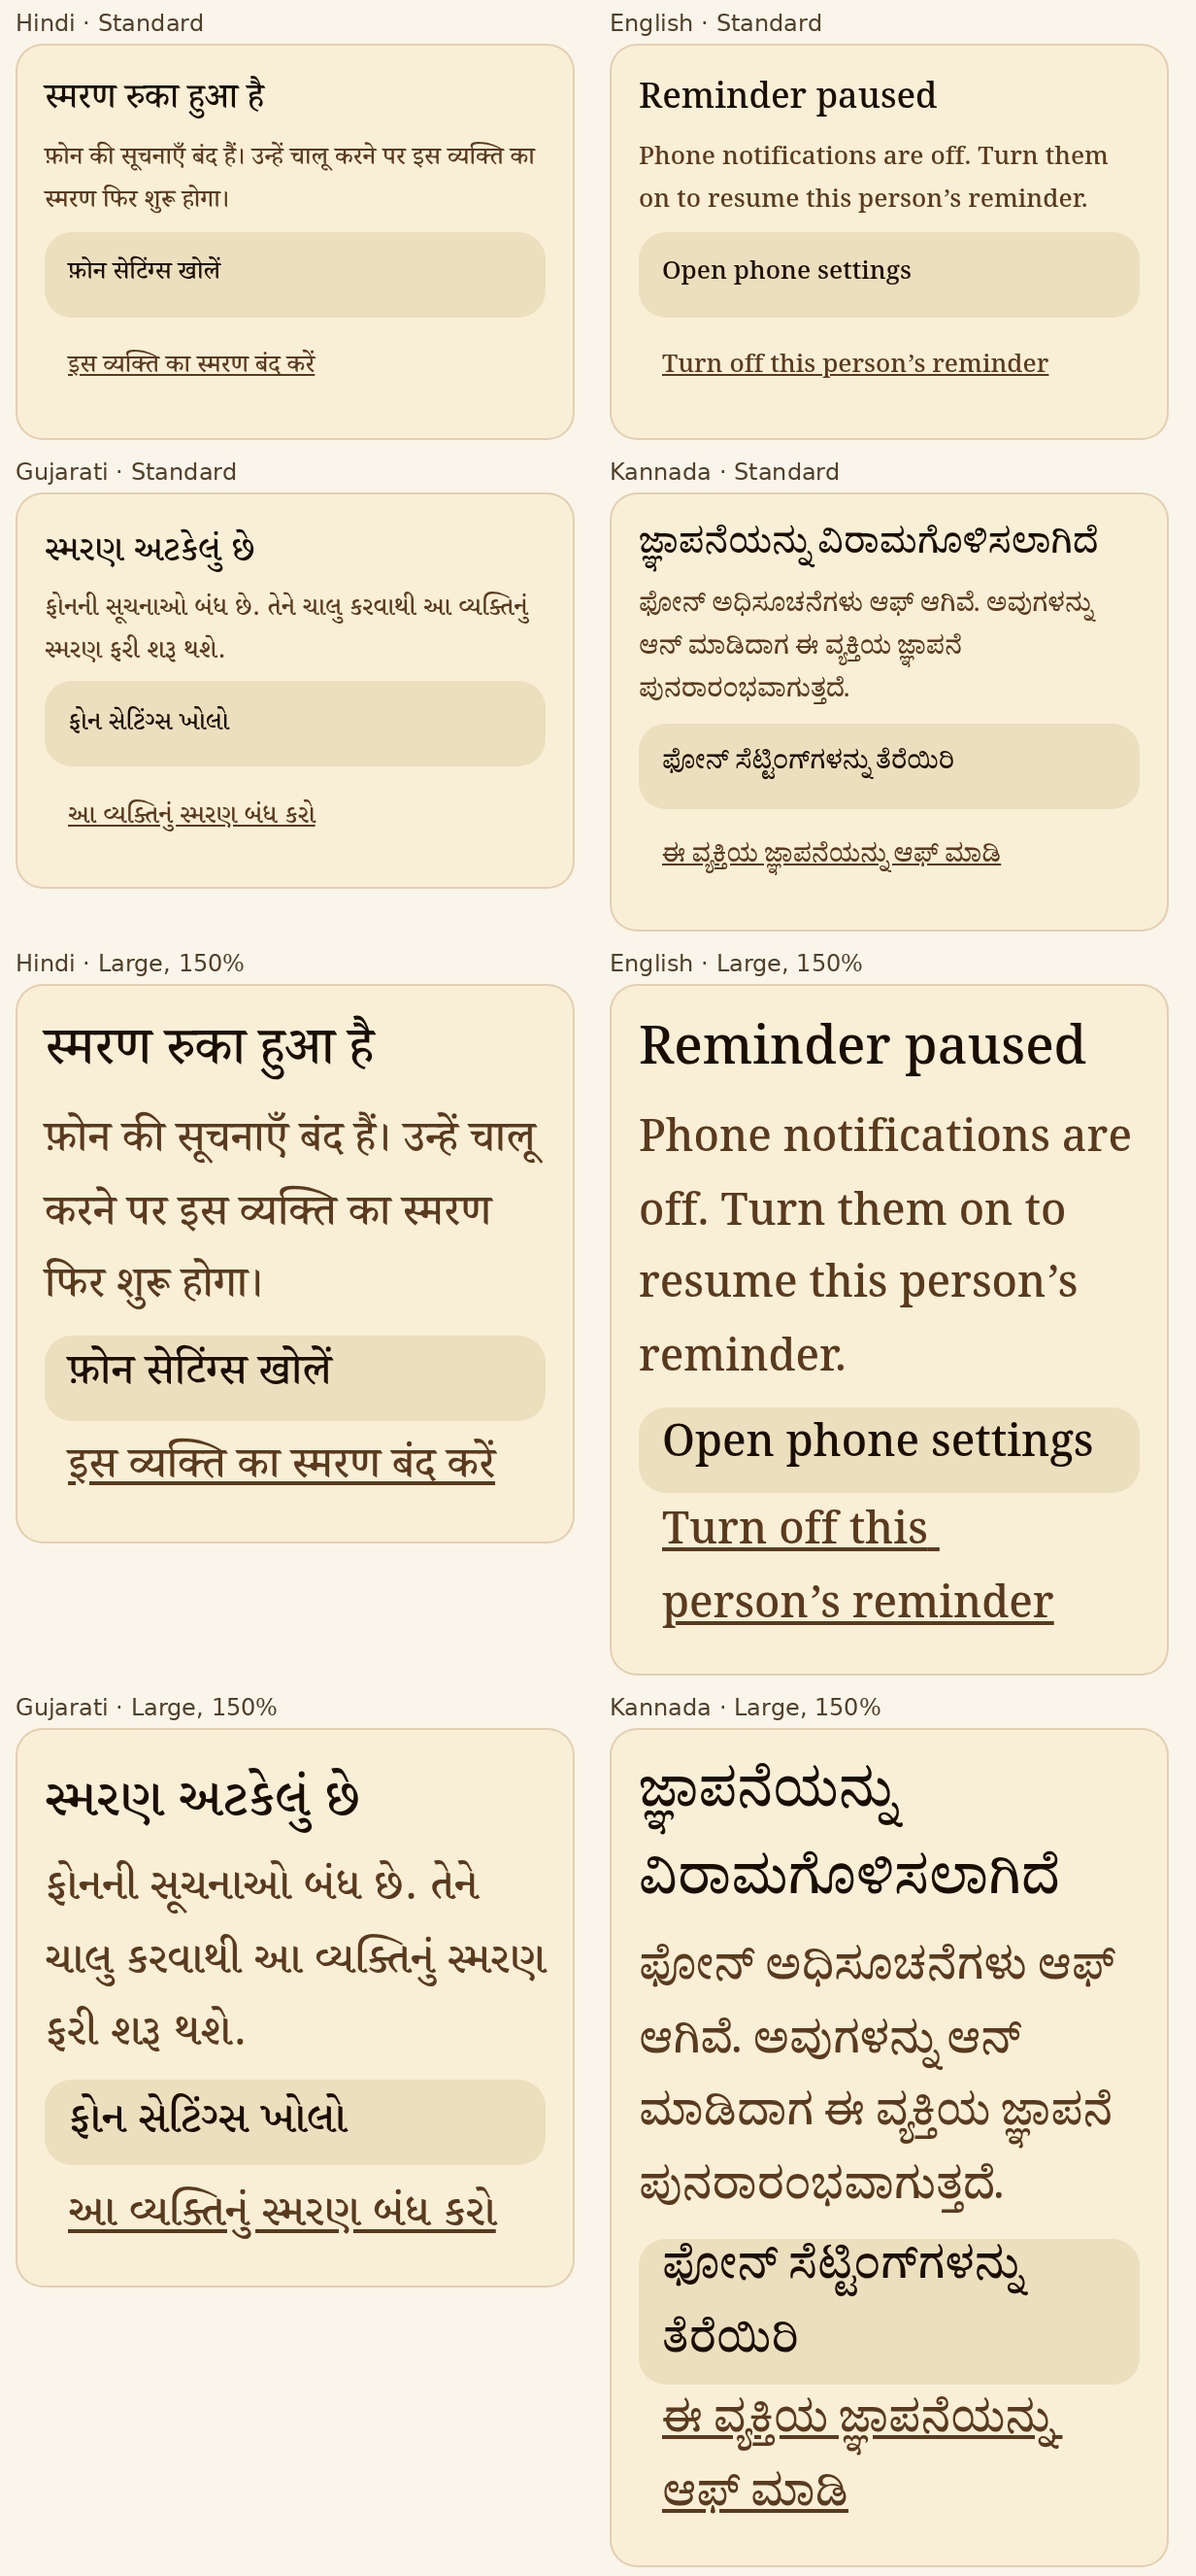
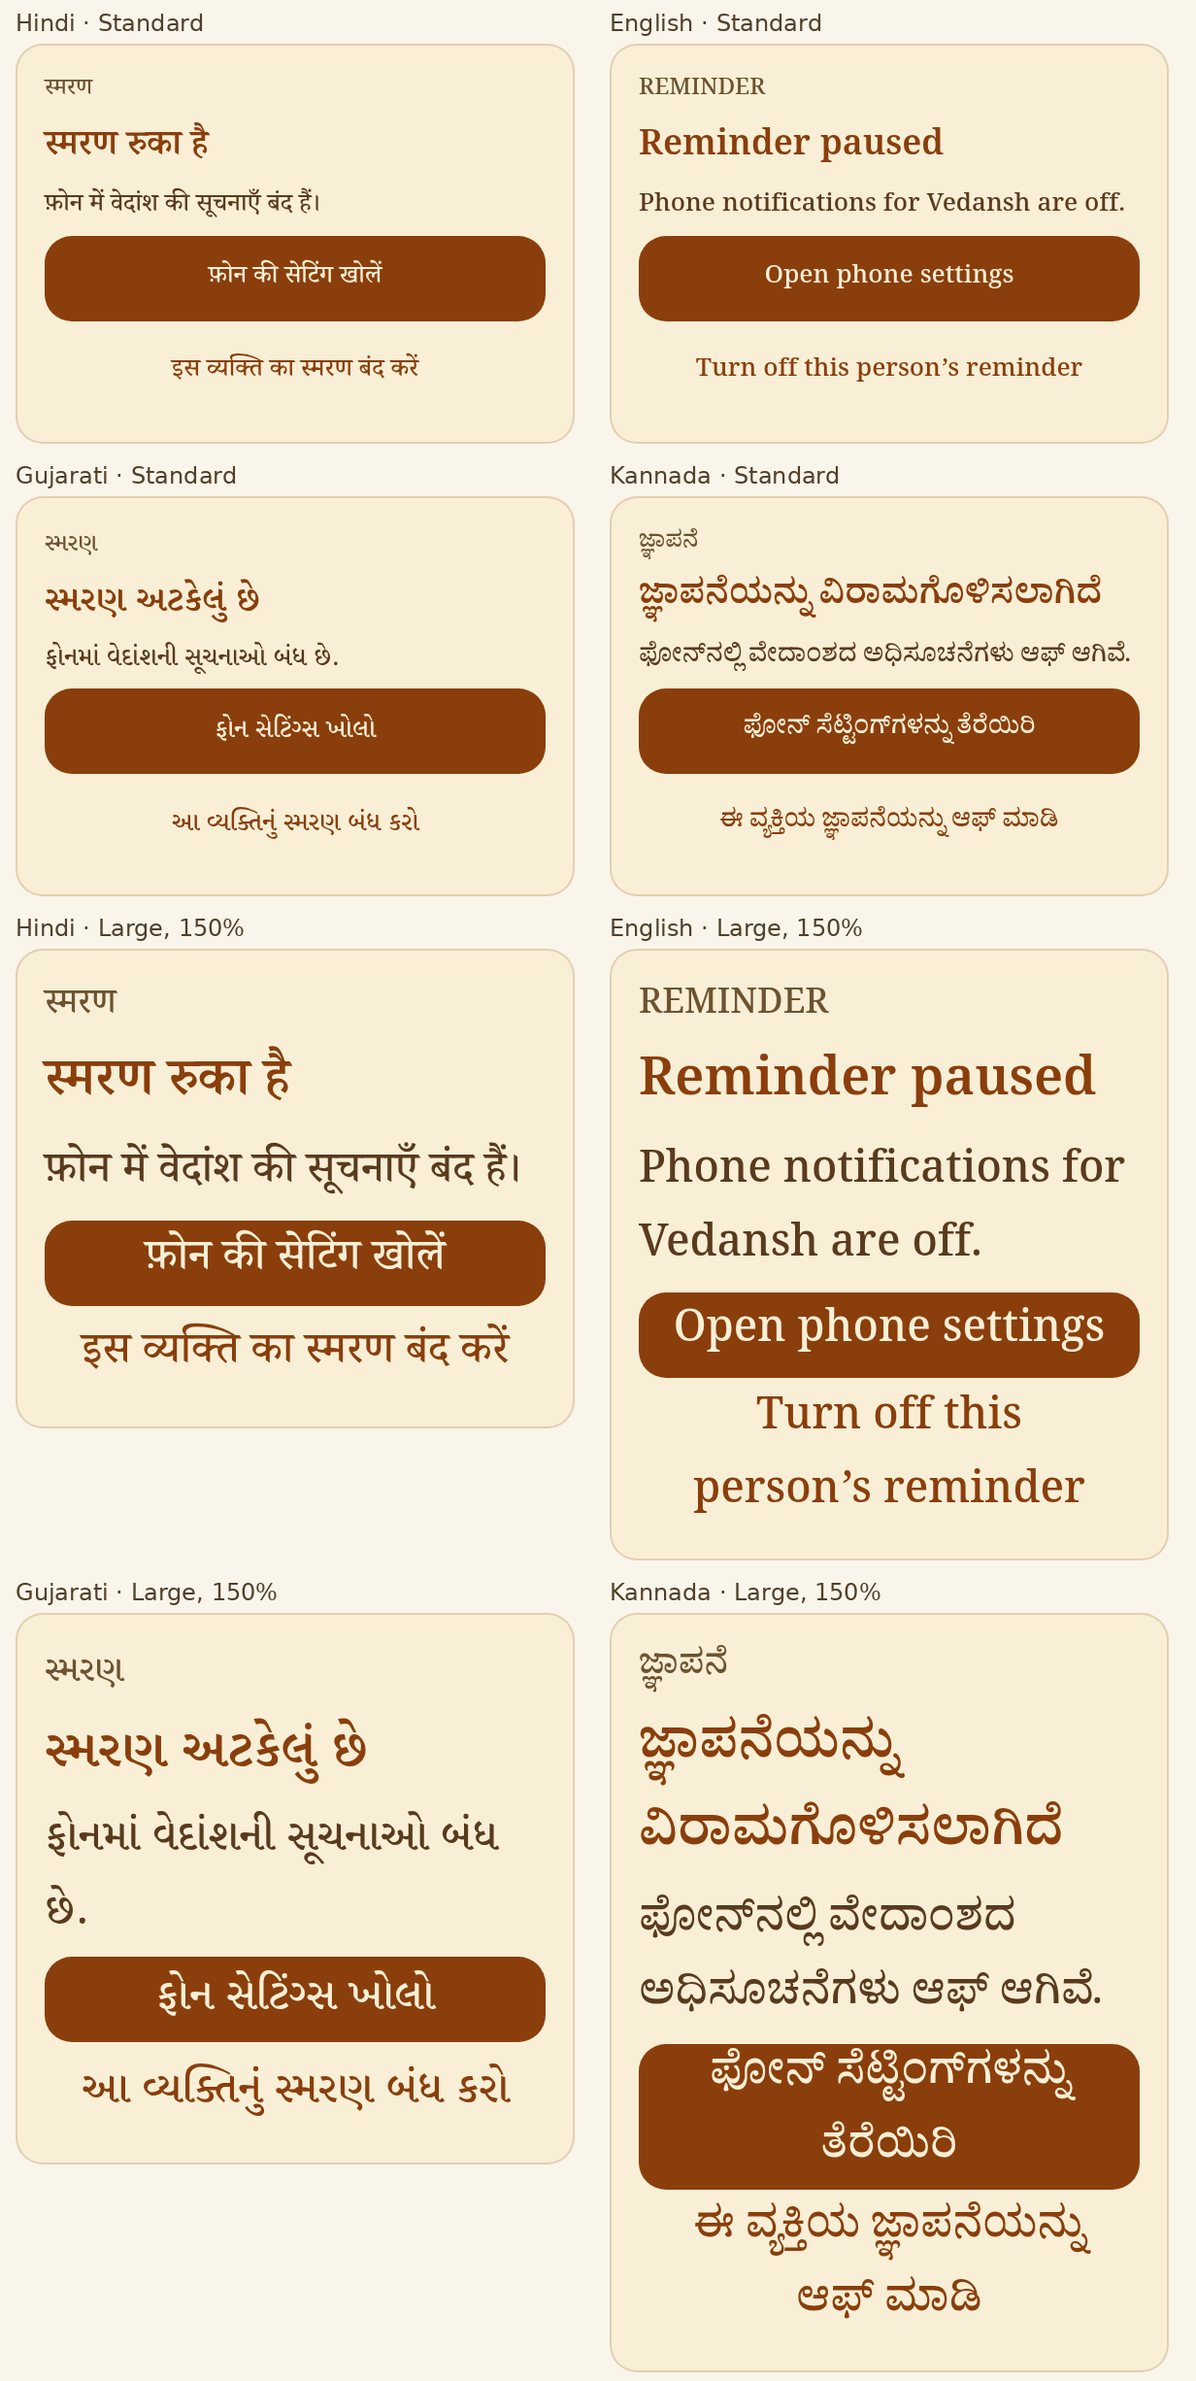
Match the approved paused card hierarchy and localized settings action

diff --git a/mobile/src/components/JanmaReminderPaused.tsx b/mobile/src/components/JanmaReminderPaused.tsx
@@ -3,7 +3,8 @@ import { Linking, Pressable, StyleSheet, Text, View } from 'react-native';
 import { useGitaLanguage } from '@/data/gita/language';
 import { useFontScale } from '@/contexts/FontScaleContext';
 import { useTheme } from '@/theme/ThemeContext';
-import { scriptBodyFont } from '@/utils/langType';
+import { fontFamilies } from '@/theme/typography';
+import { scriptBodyFont, scriptTitleFont } from '@/utils/langType';
 import { pick } from '@/utils/localize';
 
 export default function JanmaReminderPaused({ onDisable }: { onDisable: () => void }) {
@@ -17,7 +18,7 @@ export default function JanmaReminderPaused({ onDisable }: { onDisable: () => vo
     lineHeight: Math.round(typography.catalogBody.lineHeight * factor),
   };
   const settings = pick(lang, {
-    hi: 'फ़ोन सेटिंग्स खोलें',
+    hi: 'फ़ोन की सेटिंग खोलें',
     en: 'Open phone settings',
     gu: 'ફોન સેટિંગ્સ ખોલો',
     kn: 'ಫೋನ್ ಸೆಟ್ಟಿಂಗ್ಗಳನ್ನು ತೆರೆಯಿರಿ',
@@ -30,9 +31,12 @@ export default function JanmaReminderPaused({ onDisable }: { onDisable: () => vo
   });
   return (
     <View style={[styles.card, { borderRadius: radii.md, borderColor: colors.divider, backgroundColor: colors.parchmentSoft }]}>
-      <Text accessibilityRole="header" accessibilityLiveRegion="polite" style={{ ...typography.catalogTitle, fontFamily, color: colors.ink }}>
+      <Text style={{ ...typography.catalogMeta, fontFamily, color: colors.inkMuted }}>
+        {pick(lang, { hi: 'स्मरण', en: 'REMINDER', gu: 'સ્મરણ', kn: 'ಜ್ಞಾಪನೆ' })}
+      </Text>
+      <Text accessibilityRole="header" accessibilityLiveRegion="polite" style={{ ...typography.catalogTitle, fontFamily: scriptTitleFont(lang, fontFamilies.devanagariBold), color: colors.saffronDeep }}>
         {pick(lang, {
-          hi: 'स्मरण रुका हुआ है',
+          hi: 'स्मरण रुका है',
           en: 'Reminder paused',
           gu: 'સ્મરણ અટકેલું છે',
           kn: 'ಜ್ಞಾಪನೆಯನ್ನು ವಿರಾಮಗೊಳಿಸಲಾಗಿದೆ',
@@ -40,10 +44,10 @@ export default function JanmaReminderPaused({ onDisable }: { onDisable: () => vo
       </Text>
       <Text style={{ ...body, color: colors.inkSoft }}>
         {pick(lang, {
-          hi: 'फ़ोन की सूचनाएँ बंद हैं। उन्हें चालू करने पर इस व्यक्ति का स्मरण फिर शुरू होगा।',
-          en: 'Phone notifications are off. Turn them on to resume this person’s reminder.',
-          gu: 'ફોનની સૂચનાઓ બંધ છે. તેને ચાલુ કરવાથી આ વ્યક્તિનું સ્મરણ ફરી શરૂ થશે.',
-          kn: 'ಫೋನ್ ಅಧಿಸೂಚನೆಗಳು ಆಫ್ ಆಗಿವೆ. ಅವುಗಳನ್ನು ಆನ್ ಮಾಡಿದಾಗ ಈ ವ್ಯಕ್ತಿಯ ಜ್ಞಾಪನೆ ಪುನರಾರಂಭವಾಗುತ್ತದೆ.',
+          hi: 'फ़ोन में वेदांश की सूचनाएँ बंद हैं।',
+          en: 'Phone notifications for Vedansh are off.',
+          gu: 'ફોનમાં વેદાંશની સૂચનાઓ બંધ છે.',
+          kn: 'ಫೋನ್ನಲ್ಲಿ ವೇದಾಂಶದ ಅಧಿಸೂಚನೆಗಳು ಆಫ್ ಆಗಿವೆ.',
         })}
       </Text>
       <Pressable
@@ -51,8 +55,9 @@ export default function JanmaReminderPaused({ onDisable }: { onDisable: () => vo
         accessibilityRole="button"
         accessibilityLabel={settings}
         onPress={() => Linking.openSettings().catch(() => undefined)}
-        style={[styles.action, { backgroundColor: colors.goldTint, borderRadius: radii.md }]}>
-        <Text style={{ ...body, color: colors.ink }}>{settings}</Text>
+        style={[styles.action, { backgroundColor: colors.saffronDeep, borderRadius: radii.md }]}
+      >
+        <Text style={{ ...body, color: colors.parchmentSoft, textAlign: 'center' }}>{settings}</Text>
       </Pressable>
       <Pressable
         testID="janma-reminder-disable"
@@ -61,7 +66,7 @@ export default function JanmaReminderPaused({ onDisable }: { onDisable: () => vo
         onPress={onDisable}
         style={styles.action}
       >
-        <Text style={{ ...body, color: colors.inkSoft, textDecorationLine: 'underline' }}>{disable}</Text>
+        <Text style={{ ...body, color: colors.saffronDeep, textAlign: 'center' }}>{disable}</Text>
       </Pressable>
     </View>
   );

diff --git a/mobile/src/screens/__tests__/JanmaTithiScreens.test.tsx b/mobile/src/screens/__tests__/JanmaTithiScreens.test.tsx
@@ -225,7 +225,7 @@ describe('JanmaTithiDetailScreen', () => {
   });
 
   test.each([
-    ['hi', 'स्मरण रुका हुआ है'], ['en', 'Reminder paused'],
+    ['hi', 'स्मरण रुका है'], ['en', 'Reminder paused'],
     ['gu', 'સ્મરણ અટકેલું છે'], ['kn', 'ಜ್ಞಾಪನೆಯನ್ನು ವಿರಾಮಗೊಳಿಸಲಾಗಿದೆ'],
   ] as const)('saved reminder pauses, restores and can be disabled independently in %s', async (lang, title) => {
     withPeople([MADHU, VEDIKA]);
